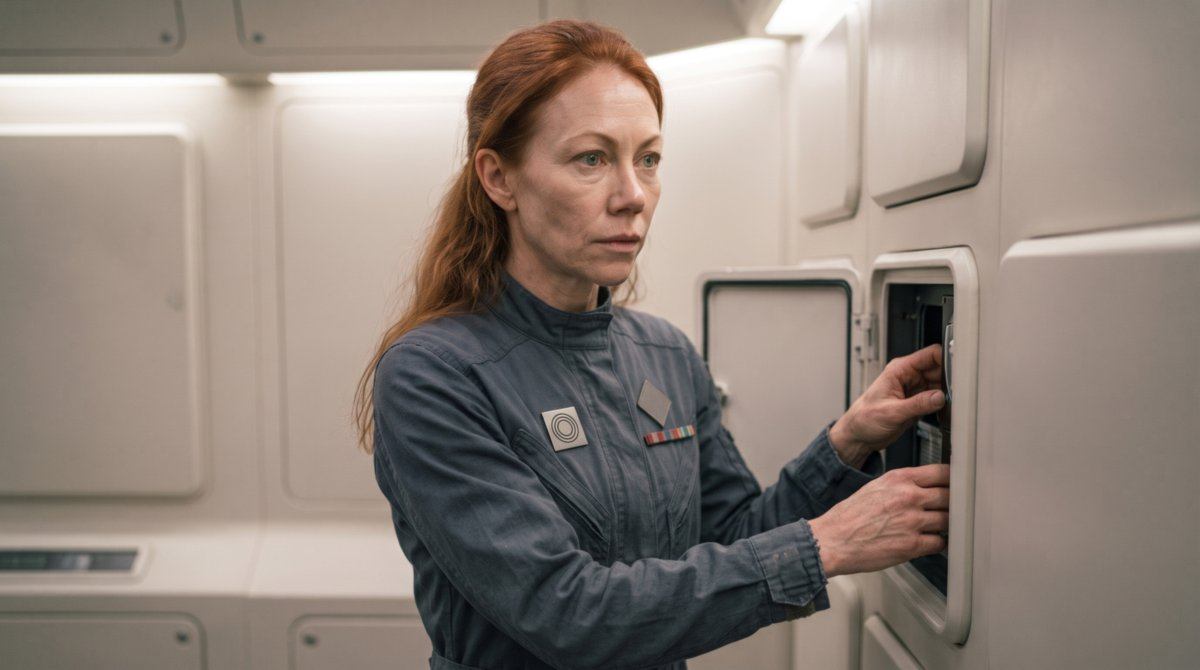
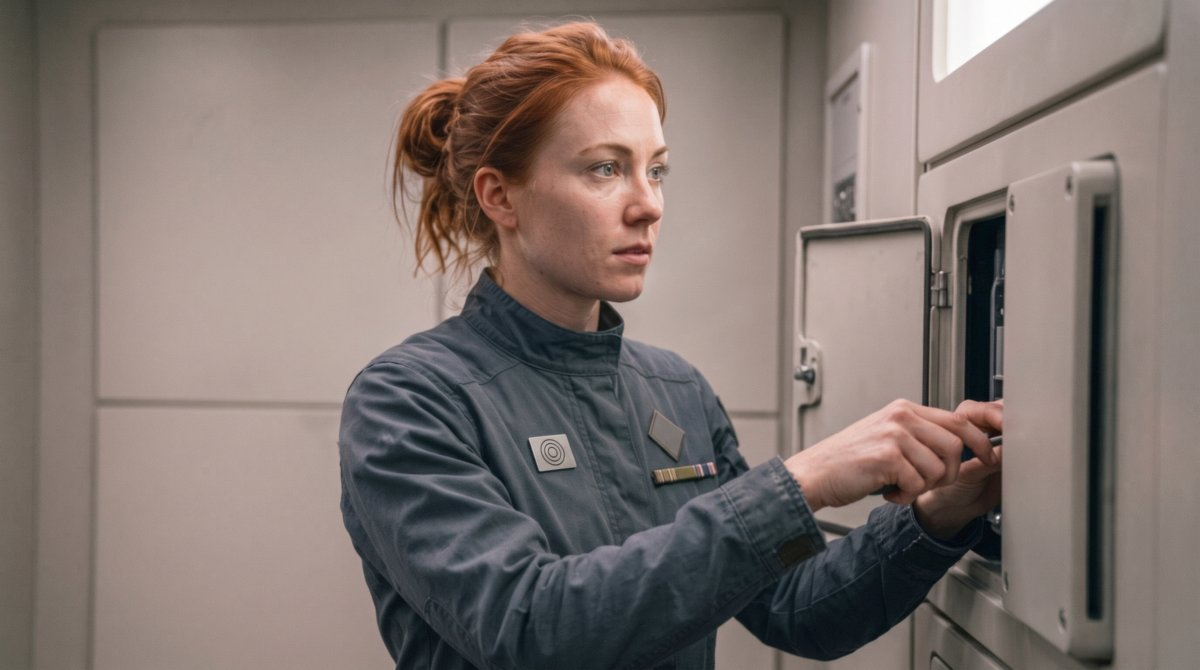
Re-roll Tissadelle's header from her cadet face (#1495)
The afternoon header read as about forty-five and a different woman.
Round two variation 2, at Dermot's pick: the cadet face five years on,
the three-ring tab. Prompt of record and both rounds in images.md.

diff --git a/story-bible/images.md b/story-bible/images.md
@@ -4914,14 +4914,17 @@ Relay*. The season pages pick them up with nothing else to do.
 
 - **`tissadelle/season-5-halyx-corridor.jpg`** — Halyx Relay Station's outer-ring transit corridor, 2831: a Line Captain's hand flat on the frame at the seam, listening for what the monitors could not sample.
   References: `src/images/characters/tissadelle-shepherd.jpg`
-  > Cinematic candid portrait, 16:9 landscape, framed close from the knees up so her chest is large in the frame, the face in the upper third of the frame, attention off-frame, at work, never posed to camera, dressed for the work and the place, modest, nothing that invites the viewer. A woman of about thirty with long red hair tied back for work and blue-green eyes, the same face as the reference image but plainly older than a newly qualified cadet: five hard years of command on it, fine lines at the corners of the eyes and across the forehead, a little hollowing under the cheekbones, faint shadows under the eyes, skin weathered by long watches, a few loose strands of hair, a tired, steady face that has been awake a long time, crouched on one knee at the structural frame of a long curved transit corridor inside a relay station eight centuries from now, the flat of one bare hand pressed to a plain seam in the frame where two matte structural sections meet, her head inclined a little toward the hand as if listening to the metal, her eyes down the length of the corridor and not on the camera, patient and entirely attentive. She wears the standard field uniform of an interstellar rescue and survey service: a modular matte shell in dark slate-grey over a close-fitting thermal liner, sealed seams, a plain stand collar, utilitarian and unornamented, sized to her rather than tailored. Absolutely no chevrons, no stripes, no wings, no stars, no eagles, no arrowheads, no crests, no emblems, no badges of any other kind, no name tape, no name badge, no printed words, no letters and no numerals anywhere on her clothing. No braid, no epaulettes, no belts, no buckles, no piping, no cape, no armour plates, no flags. Nothing on the uniform glows. The chest carries exactly three things and nothing else: one small square hard-edged metal tab, plain matte finish, seated proud of the chest, engraved only with three thin concentric circles like a target with no centre dot, turned toward the camera and large enough in the frame that all three rings can be counted; beside it one small plain fabric patch that is a single flat diamond shape with nothing drawn on it; and below them a single short row of small dull-coloured service ribbons. The corridor is wide, long and empty, curving gently away, its walls and floor flat matte structural panels in muted grey with honest seams and sealed plain housings at intervals, at most one small unlit indicator on any of them, soft even light from concealed recessed sources, nothing shown through any opening. A small plain sealed instrument case stands closed on the floor beside her and nothing is attached to it. Unglamorous available light; visible skin texture; no beauty retouching, no styled hair, no makeup emphasis. Nothing in the image invites the viewer; she is at work. Muted realistic palette. No other people in frame. Use the reference images only for her face, hair colour and eye colour; do not copy their clothing, insignia, setting or lighting. Negative: readable text, lettering, numerals, signage, labels, branding or written characters of any script anywhere in frame; holograms, projected light, glowing displays, screens, monitors, consoles, dials, gauges, meters, knobs, toggles, tube screens, exposed cables, tablets, laptops; visible lamp, light fitting or bulb; flat studio backdrop, gradient background, glamour lighting, corporate headshot, posed smiling to camera; weapons. youthful face, smooth unlined skin, fresh-faced, girlish, middle-aged, grey hair, stethoscope, headphones, handheld scanner with a screen, tablet, torch, glowing seam, cracked wall, sparks, steam, pipes and valves, industrial grime, second person, Veyr or alien figure, smile to camera.
+  > Cinematic candid portrait, 16:9 landscape, framed close from the knees up so her chest is large in the frame, the face in the upper third of the frame, attention off-frame, at work, never posed to camera, dressed for the work and the place, modest, nothing that invites the viewer. A woman of about thirty with long red hair tied back for work and blue-green eyes, the same face as the reference image but plainly older than a newly qualified cadet: five hard years of command on it, fine lines at the corners of the eyes and across the forehead, a little hollowing under the cheekbones, faint shadows under the eyes, skin weathered by long watches, a few loose strands of hair, a tired, steady face that has been awake a long time, crouched on one knee at the structural frame of a long curved transit corridor inside a relay station eight centuries from now, the flat of one bare hand pressed to a plain seam in the frame where two matte structural sections meet, her head inclined a little toward the hand as if listening to the metal, her eyes down the length of the corridor and not on the camera, patient and entirely attentive. She wears the standard field uniform of an interstellar rescue and survey service: a modular matte shell in dark slate-grey over a close-fitting thermal liner, sealed seams, a plain stand collar, utilitarian and unornamented, sized to her rather than tailored. Absolutely no chevrons, no stripes, no wings, no stars, no eagles, no arrowheads, no crests, no emblems, no badges of any other kind, no name tape, no name badge, no printed words, no letters and no numerals anywhere on her clothing. No braid, no epaulettes, no belts, no buckles, no piping, no cape, no armour plates, no flags. Nothing on the uniform glows. The chest carries exactly three things and nothing else: one small square hard-edged metal tab, plain matte finish, seated proud of the chest, engraved only with one bullseye of three thin rings nested one inside another around a single shared centre, the smallest ring inside the middle ring inside the largest, like a target with no centre dot (never three separate circles side by side, never circles stacked in a column), turned toward the camera and large enough in the frame that all three rings can be counted; beside it one small plain fabric patch in the shape of a diamond, a small square turned to stand on one corner, with nothing drawn on it; and below them a single short row of small dull-coloured service ribbons. The corridor is wide, long and empty, curving gently away, its walls and floor flat matte structural panels in muted grey with honest seams and sealed plain housings at intervals, at most one small unlit indicator on any of them, soft even light from concealed recessed sources, nothing shown through any opening. A small plain sealed instrument case stands closed on the floor beside her and nothing is attached to it. Unglamorous available light; visible skin texture; no beauty retouching, no styled hair, no makeup emphasis. Nothing in the image invites the viewer; she is at work. Muted realistic palette. No other people in frame. Use the reference images only for her face, hair colour and eye colour; do not copy their clothing, insignia, setting or lighting. Negative: readable text, lettering, numerals, signage, labels, branding or written characters of any script anywhere in frame; holograms, projected light, glowing displays, screens, monitors, consoles, dials, gauges, meters, knobs, toggles, tube screens, exposed cables, tablets, laptops; visible lamp, light fitting or bulb; flat studio backdrop, gradient background, glamour lighting, corporate headshot, posed smiling to camera; weapons. youthful face, smooth unlined skin, fresh-faced, girlish, middle-aged, grey hair, stethoscope, headphones, handheld scanner with a screen, tablet, torch, glowing seam, cracked wall, sparks, steam, pipes and valves, industrial grime, second person, Veyr or alien figure, smile to camera.
   - *(Revised 24 October 2026, Opus, at Dermot's word: the filed frame read as the same age as the cadet frames and its rank tab vanished at gallery size. She is about five years older than in Season 1 (2826 to 2831), so the face carries five hard years and no more; the cadet frame is dropped as a reference because it pulled the face young; the framing closes in until the three rings can be counted.)*
   - **The hand, not an instrument.** The chapter's point is that the detecting instrument was a refusal and an ear; the pickups she mounts later are not in the frame.
 
 - **`tissadelle-shepherd.jpg`** — the page header, Season 5, Line Captain: at work at a sealed housing in a station compartment, five years on from the cadet frame.
-  References: `src/images/characters/tissadelle/season-5-halyx-corridor.jpg`
-  > Cinematic candid portrait, 16:9 landscape, framed from the waist up so her chest is large in the frame, the face in the upper third of the frame, attention off-frame, at work, never posed to camera, dressed for the work and the place, modest, nothing that invites the viewer. A woman of about thirty with long red hair tied back for work and blue-green eyes, the same face as the reference image, plainly older than a newly qualified cadet: five hard years of command on it, fine lines at the corners of the eyes and across the forehead, a little hollowing under the cheekbones, faint shadows under the eyes, skin weathered by long watches, a few loose strands of hair, a tired, steady face, standing in a plain working compartment of a boundary-survey station eight centuries from now, mid-task, both hands working at the open access panel of a smooth sealed instrument housing set into the wall to her right, her attention on it and off the camera, upright, self-possessed, unhurried, the authority of someone who no longer needs to show it. She wears the standard field uniform of an interstellar rescue and survey service: a modular matte shell in dark slate-grey over a close-fitting thermal liner, sealed seams, a plain stand collar, utilitarian and unornamented, sized to her rather than tailored, worn and a little faded at the cuffs. Absolutely no chevrons, no stripes, no wings, no stars, no eagles, no arrowheads, no crests, no emblems, no badges of any other kind, no name tape, no name badge, no printed words, no letters and no numerals anywhere on her clothing. No braid, no epaulettes, no belts, no buckles, no piping, no cape, no armour plates, no flags. Nothing on the uniform glows. The chest carries exactly three things and nothing else: one small square hard-edged metal tab, plain matte finish, seated proud of the chest, engraved only with three thin concentric circles like a target with no centre dot, turned toward the camera and large enough in the frame that all three rings can be counted; beside it one small plain fabric patch that is a single flat diamond shape with nothing drawn on it; and below them a single short row of small dull-coloured service ribbons. The compartment is quiet and clean: flat matte pale wall panels, sealed plain housings with flat fronts and honest seams, at most one small unlit indicator on any of them, soft diffuse light from concealed recessed sources, no lamp, tube or light fitting visible. Unglamorous available light; visible skin texture; no beauty retouching, no styled hair, no makeup emphasis. Nothing in the image invites the viewer; she is at work. Muted realistic palette. No other people in frame. Use the reference image only for her face, her age, hair colour and eye colour; do not copy its clothing, insignia, setting, pose or lighting. Negative: readable text, lettering, numerals, signage, labels, branding or written characters of any script anywhere in frame; holograms, projected light, glowing displays, screens, monitors, consoles, dials, gauges, meters, knobs, toggles, tube screens, exposed cables, tablets, laptops; visible lamp, light fitting or bulb; flat studio backdrop, gradient background, glamour lighting, corporate headshot, posed smiling to camera; weapons. youthful face, smooth unlined skin, fresh-faced, girlish, middle-aged, grey hair, two stripes, equals sign, single bar, crouching, kneeling, corridor, instrument case, second person, smile to camera.
+  References: `story-bible/reference-art/tissadelle-face-cadet-2026-10-25.jpg`
+  > Cinematic candid portrait, 16:9 landscape, framed from the waist up so her chest is large in the frame, the face in the upper third of the frame, attention off-frame, at work, never posed to camera, dressed for the work and the place, modest, nothing that invites the viewer. A woman of about thirty with long red hair tied back for work and blue-green eyes, exactly the same woman as the reference image, keeping exactly its face shape, nose, jaw, cheekbones, freckles and eyes, visibly about five years older than in it, a woman of thirty and not of twenty-five: the same cheeks a little leaner, fine lines at the outer corners of the eyes, a faint line between the brows, a little tiredness under the eyes, skin a little weathered by long watches, and nothing deeper, a few loose strands of hair, a steady face that is still young, standing in a plain working compartment of a boundary-survey station eight centuries from now, mid-task, both hands working at the open access panel of a smooth sealed instrument housing set into the wall to her right, her attention on it and off the camera, upright, self-possessed, unhurried, the authority of someone who no longer needs to show it. She wears the standard field uniform of an interstellar rescue and survey service: a modular matte shell in dark slate-grey over a close-fitting thermal liner, sealed seams, a plain stand collar, utilitarian and unornamented, sized to her rather than tailored, worn and a little faded at the cuffs. Absolutely no chevrons, no stripes, no wings, no stars, no eagles, no arrowheads, no crests, no emblems, no badges of any other kind, no name tape, no name badge, no printed words, no letters and no numerals anywhere on her clothing. No braid, no epaulettes, no belts, no buckles, no piping, no cape, no armour plates, no flags. Nothing on the uniform glows. The chest carries exactly three things and nothing else: one small square hard-edged metal tab, plain matte finish, seated proud of the chest, engraved only with three thin concentric circles like a target with no centre dot, turned toward the camera and large enough in the frame that all three rings can be counted; beside it one small plain fabric patch that is a single flat diamond shape with nothing drawn on it; and below them a single short row of small dull-coloured service ribbons. The compartment is quiet and clean: flat matte pale wall panels, sealed plain housings with flat fronts and honest seams, at most one small unlit indicator on any of them, soft diffuse light from concealed recessed sources, no lamp, tube or light fitting visible. Unglamorous available light; visible skin texture; no beauty retouching, no styled hair, no makeup emphasis. Nothing in the image invites the viewer; she is at work. Muted realistic palette. No other people in frame. Use the reference image only for her face, hair colour and eye colour; she is five years older than in it and no more; do not copy its clothing, insignia, setting, pose or lighting. Negative: readable text, lettering, numerals, signage, labels, branding or written characters of any script anywhere in frame; holograms, projected light, glowing displays, screens, monitors, consoles, dials, gauges, meters, knobs, toggles, tube screens, exposed cables, tablets, laptops; visible lamp, light fitting or bulb; flat studio backdrop, gradient background, glamour lighting, corporate headshot, posed smiling to camera; weapons. girlish, teenage, middle-aged, aged forty or older, gaunt face, hollow cheeks, deep lines from nose to mouth, forehead wrinkles, sagging skin, long narrow face, a different woman, grey hair, two stripes, equals sign, single bar, crouching, kneeling, corridor, instrument case, second person, smile to camera.
   - *(Re-made 25 October 2026, Opus, at Dermot's word, "re-make Tissadelle's hero as the older Line Captain". The header filed on 5 September was the cadet frame's photograph with the rank tab changed, so it showed a cadet's face under a Line Captain's tab. Its only face reference is now the Halyx frame re-made on 24 October, whose face he approved as five years older. The scene keeps the header's sealed compartment and housing, so the three Tissadelle frames show three different moments. The 5 September header is retired to `story-bible/reference-art/tissadelle-shepherd-header-retired-2026-10-25.jpg`, as the coverall portrait was before it. The cadet and first-posting references above name the header path as it stood when they were run.)*
+  - *(Revised 25 October 2026, evening, Opus, at Dermot's word, "Re-roll Tissadelle's Line Captain header at about thirty, using the cadet frame as the face reference". The afternoon's header read as about forty-five and as a different woman: a longer, gaunter face with deep lines, a different nose and jaw. The reference is now the cadet frame cropped to face and shoulders, the ageing is held to fine lines at the eyes, and the gaunt, deep-lined face is negated by name.)*
+  - *(Round two, same evening: round one kept the cadet's face in all four but showed no added age, set the three rings side by side or in a column, and squared the diamond. The age line asks for a woman of thirty, not twenty-five; the tab is described as one bullseye with the wrong layouts negated; the patch is a square on its corner.)*
+  - *(Filed 25 October 2026, evening, at Dermot’s pick: round two variation 2, imported at 1,200 px with finish strength 1. Variation 1 interlocked the rings and variation 4 lit two indicators; 3 also passed. The afternoon’s header is retired to `story-bible/reference-art/tissadelle-shepherd-header-retired-2026-10-25-evening.jpg`.)*
 
 ## History (2026-07-24)
 

diff --git a/CHANGELOG.md b/CHANGELOG.md
@@ -6,6 +6,8 @@ The format loosely follows [Keep a Changelog](https://keepachangelog.com/en/1.1.
 
 ## [Unreleased]
 
+- **Tissadelle’s header re-rolled from her cadet face** (`src/images/characters/tissadelle-shepherd.jpg`, `src/characters/tissadelle-shepherd.md`, `story-bible/images.md`, 2026-10-25, Opus, at Dermot’s word). The afternoon’s Line Captain header read as about forty-five and as a different woman. The new one takes its face from the cadet frame, about five years on, with the three-ring tab; the prompt of record and both rounds are in `images.md`.
+
 - **An Ovruhn Ranger's viewpoint added to *The Order of Evacuation* (S01E03C04)** (`src/seasons/s01/e03/s01e03c04.md`, `src/characters/rhuven.md`, `story-bible/intake-2026-10-25.md`, `story-bible/open-questions.md`, 2026-10-25, drafted by Fable at Dermot's direction, his hearing first). A new `rhuven` block between Syra's and Iona's: the Survey Corps' acoustic observer hears the shelf under the basin go wrong four hours before the recorders log it, keeps the watch through the fourteen hours from the station, and stands on the shelter deck after. The existing prose is unchanged. It places Rhuven on Pelagos Minor, which the character page left unnamed; at Dermot’s word `src/characters/rhuven.md` is revised to cite the chapter, and `story-bible/open-questions.md` records the ruling.
 
 - **Lore: *The Mathematics of the Etheric Layer*** (`src/lore/mathematics-of-the-etheric-layer.md`, `src/lore/mathematics-and-its-notations.md`, `src/lore/generalised-quantum-mechanics.md`, `src/glossary/etheric.md`, `story-bible/intake-2026-10-25.md`, 2026-10-25, Fable, at Dermot's direction). What kind of mathematics describes Layer 3: constraint, not force. A template is a test a configuration passes or fails, its one observable is persistence once the trigger is gone, and it reaches the physics as the generalisation's extension terms with local coefficients, zero in quiet places. States form and no constants, scopes each claim on the six-level ladder, and says what the record does not hold. See-also links added both ways; no page's text otherwise changed.

diff --git a/src/characters/tissadelle-shepherd.md b/src/characters/tissadelle-shepherd.md
@@ -14,7 +14,7 @@ description: "Star Ranger cadet at the start of Season 1; earns the rank of Line
 image: tissadelle-shepherd.jpg
 image_season: 5
 image_caption: "Season 5 — Line Captain"
-image_alt: "Tissadelle Shepherd at about thirty, five years older than in her cadet frames, red hair pulled back loosely with a few strands falling free and blue-green eyes, in the dark slate-grey Ranger field uniform with a stand collar, the square metal rank tab with three concentric rings on her chest, a plain diamond patch and a short row of service ribbons beside it, both hands at the open access panel of a sealed housing in the wall of a pale compartment, her eyes past the panel and not on the viewer"
+image_alt: "Tissadelle Shepherd at about thirty, a few years older than in her cadet frames, red hair pinned up loosely with strands falling free and blue-green eyes, in the dark slate-grey Ranger field uniform with a stand collar, the square metal rank tab with three concentric rings on her chest, a plain diamond patch and a short row of service ribbons beside it, both hands at the open access panel of a sealed housing in the wall of a pale compartment, her eyes on the work and not on the viewer"
 known_codex: [star-rangers-anthem, ballad-of-the-stars]
 gallery:
   - image: season-1-cadet.jpg
